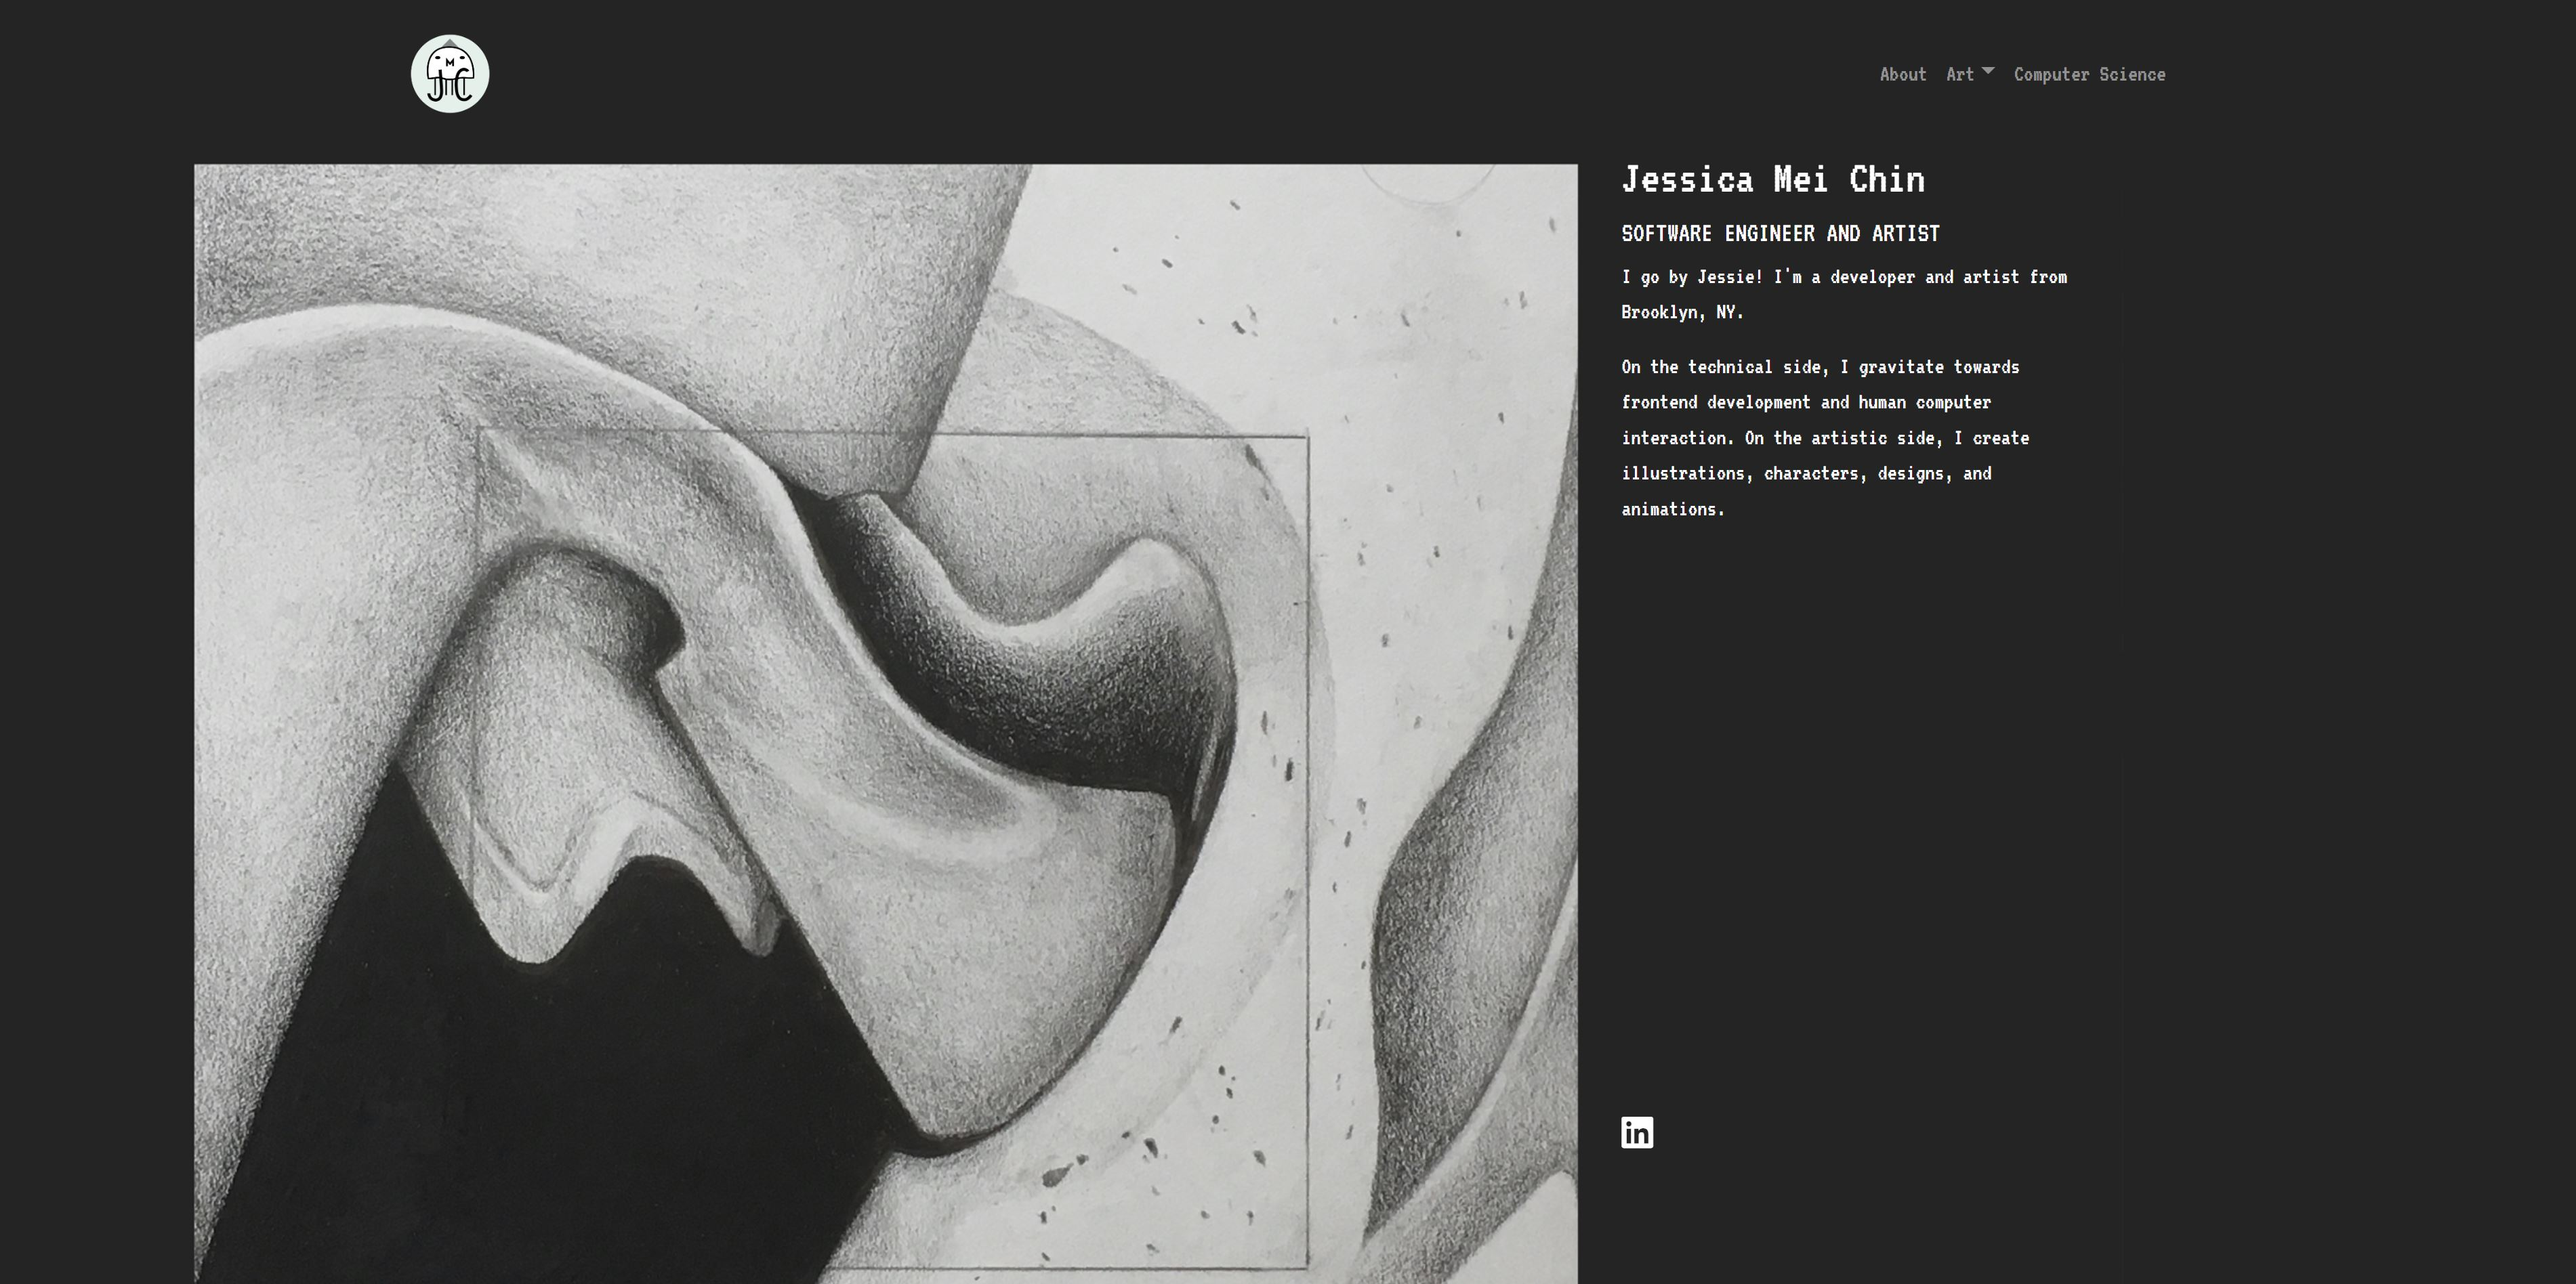
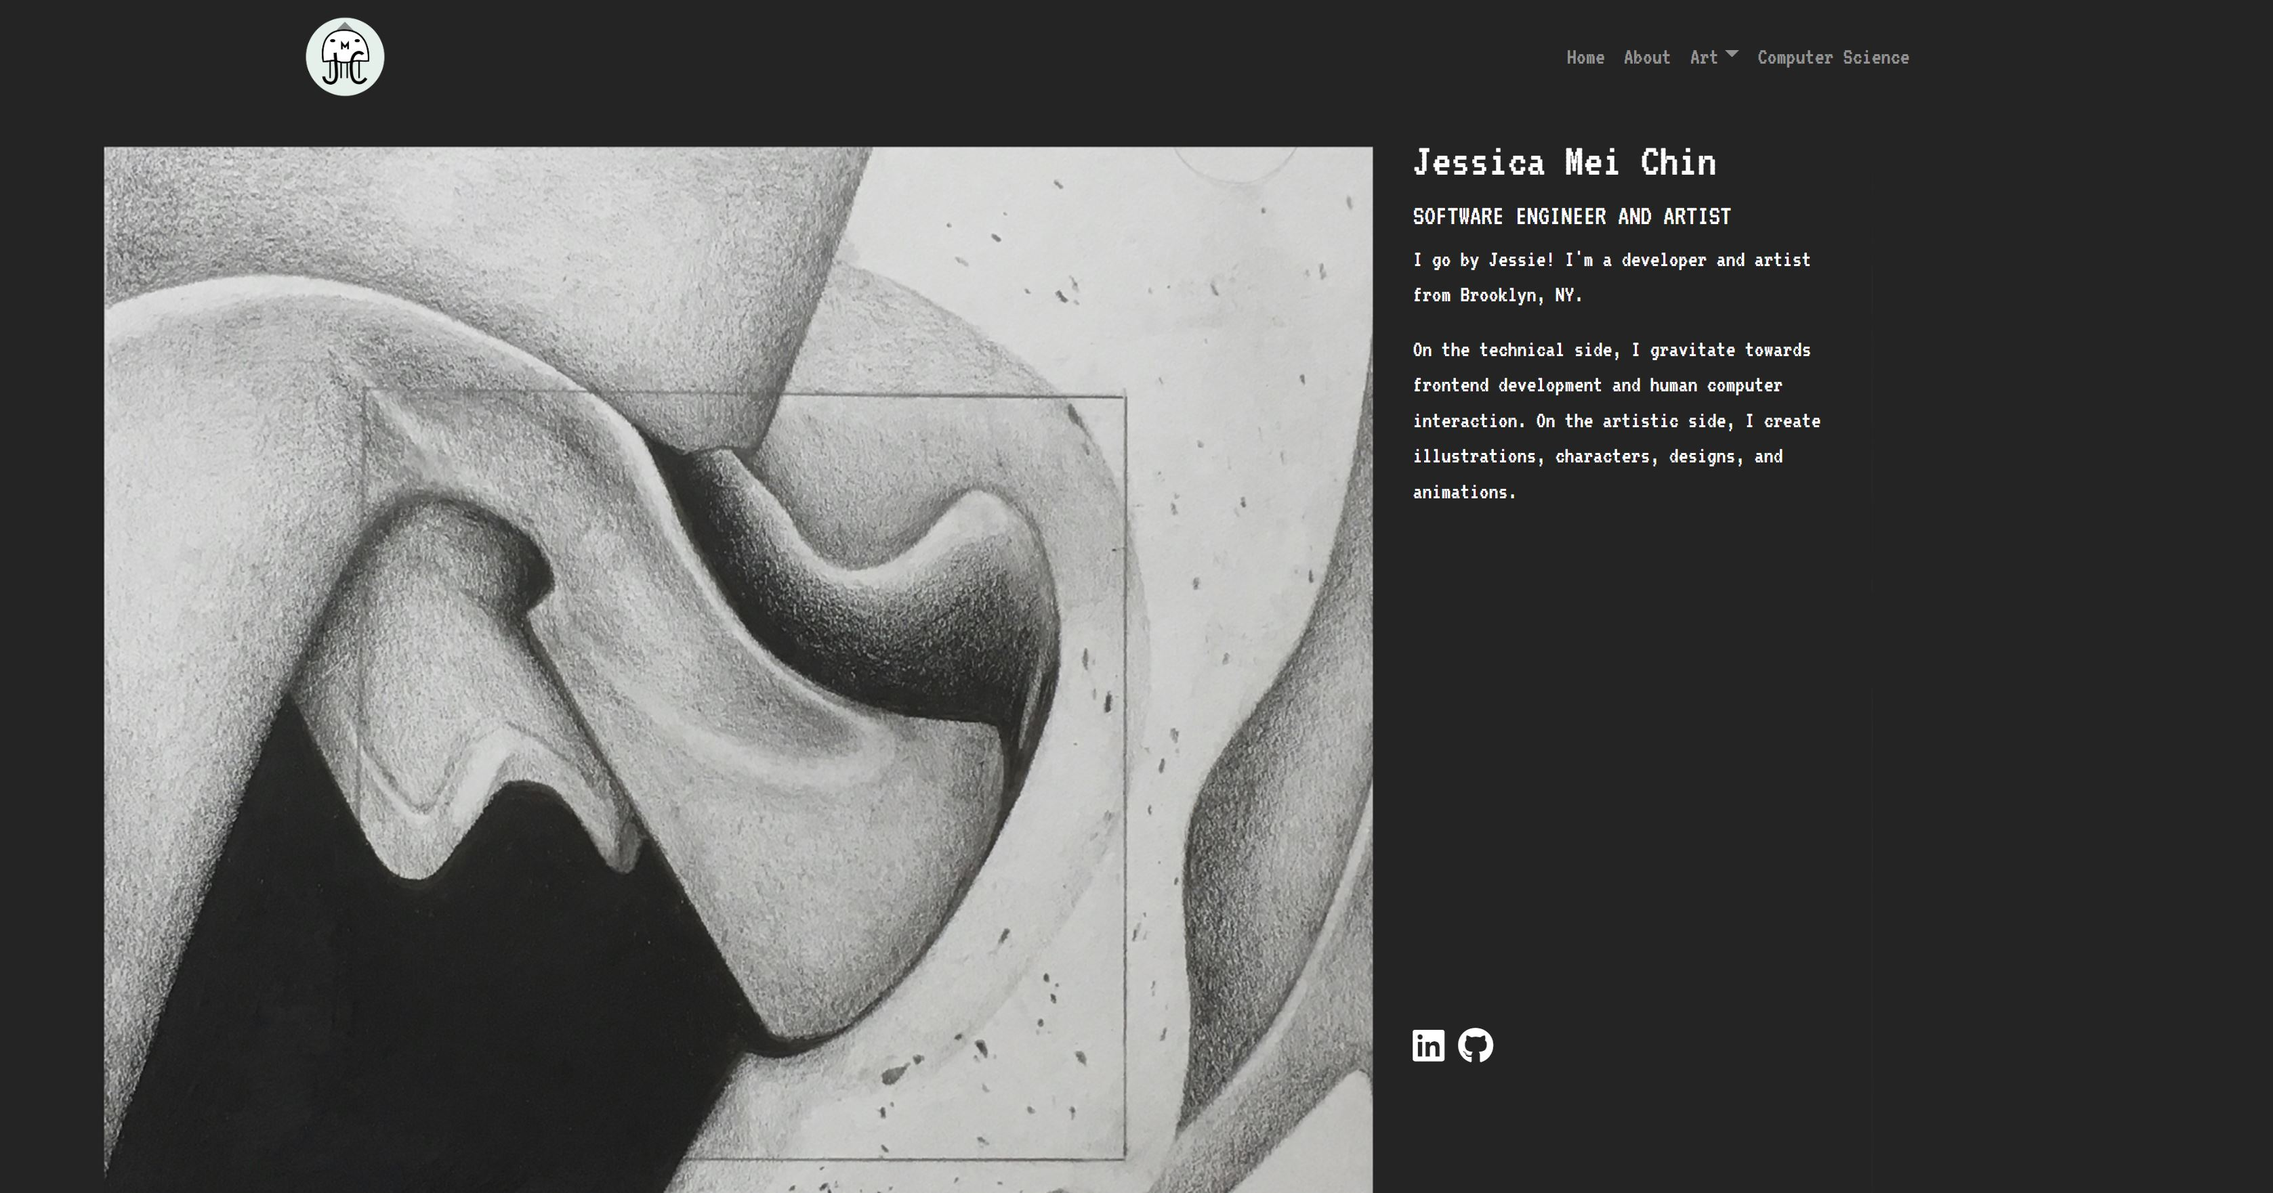
update links and add redirect file

Changed region(s): [[0.031, 0.1249, 0.806, 1.0], [0.124, 0.0, 0.186, 0.0936], [0.682, 0.0312, 0.837, 0.0624]]

diff --git a/src/components/CS/index.js b/src/components/CS/index.js
@@ -22,7 +22,7 @@ function ComputerScience() {
           moreFiles={[]}
           links=<p className="links">
             If you're curious, you can look at the Github repo{" "}
-            <a href="https://github.com/jessiemmm/catching-up">here.</a>
+            <a href="https://github.com/jessiemmm/personal-website">here.</a>
           </p>
         />
         <br></br>
@@ -32,14 +32,14 @@ function ComputerScience() {
           description="A fun trivia website made in collaboration with Jared Rudnicki using Javascript, React, and Node. Supports multiple types of users,
             such as moderators, general users, and guests. Also supports manually creating and answering trivia questions, as 
             well as generating random ones from an external API."
-          moreFiles={["/images/screenshots/jrivia1.JPG"]}
+          moreFiles={["/images/screenshots/jrivia1.JPG", "/images/screenshots/jrivia2.JPG"]}
           links=<p className="links">
             See the deployed website{" "}
             <a href="https://jrivia.herokuapp.com/">here!</a>
             <br></br>
             You can also check out the{" "}
-            <a href="https://jrivia.herokuapp.com/">main repo</a> and{" "}
-            <a href="https://jrivia.herokuapp.com/">node repo.</a>
+            <a href="https://github.com/jessiemmm/jrivia">main repo</a> and{" "}
+            <a href="https://github.com/jaredrudnicki/jrivia-node">node repo.</a>
           </p>
         />
         <br></br>
@@ -69,7 +69,7 @@ function ComputerScience() {
           ]}
           links=<p className="links">
             Click <a href="https://nostalgic-euler-5c026f.netlify.app/">here</a>{" "}
-            to see the deployed website.
+            to see the deployed website (Firefox only).
             <br></br>
             <p>
               Github repo can be found{" "}
